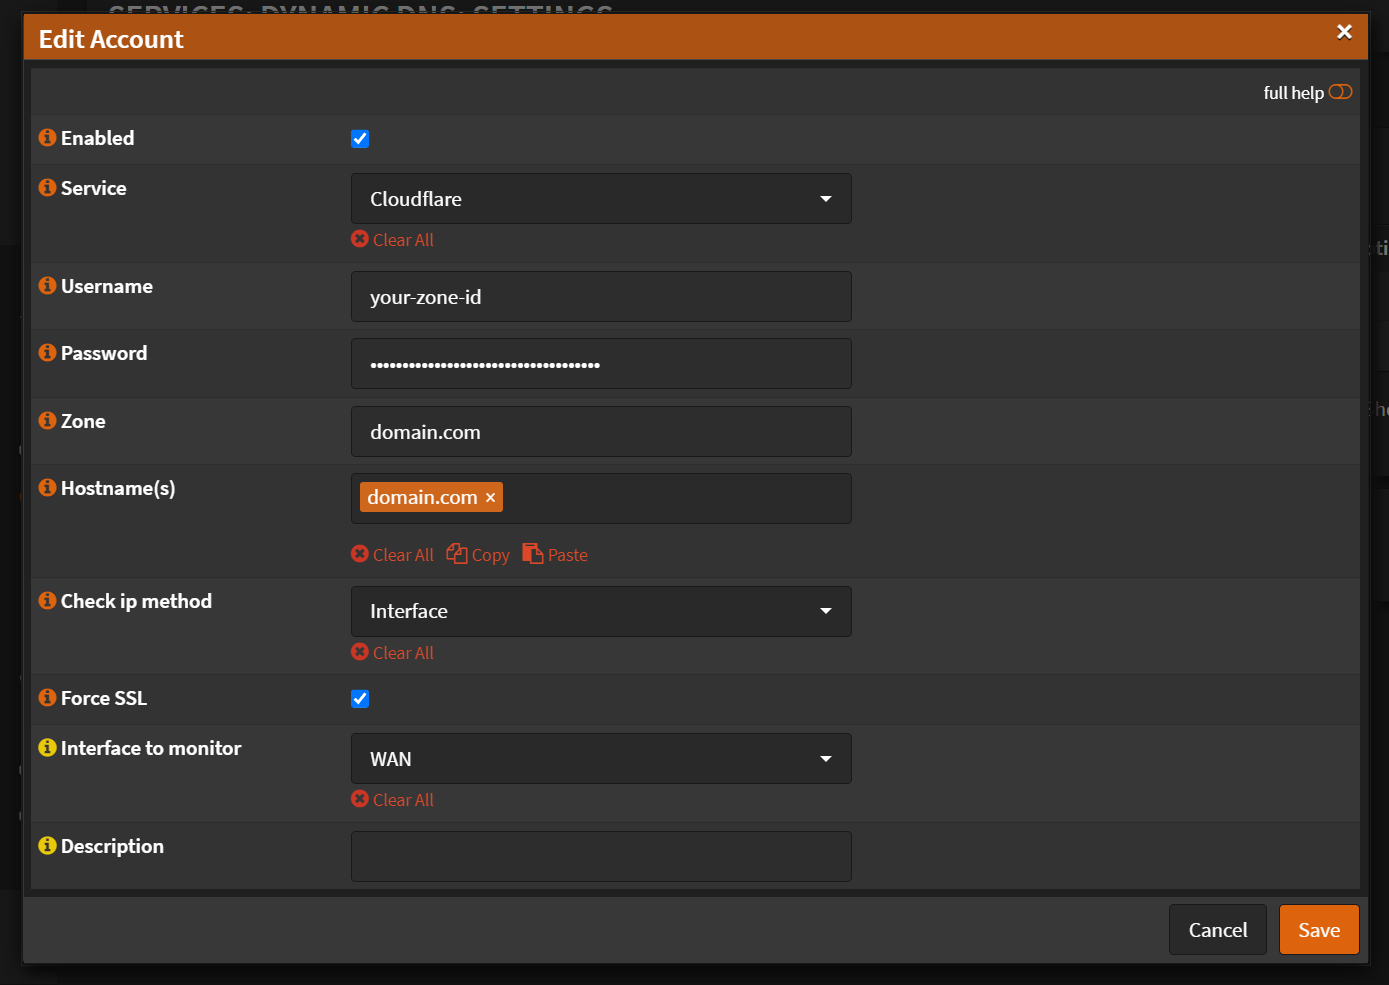
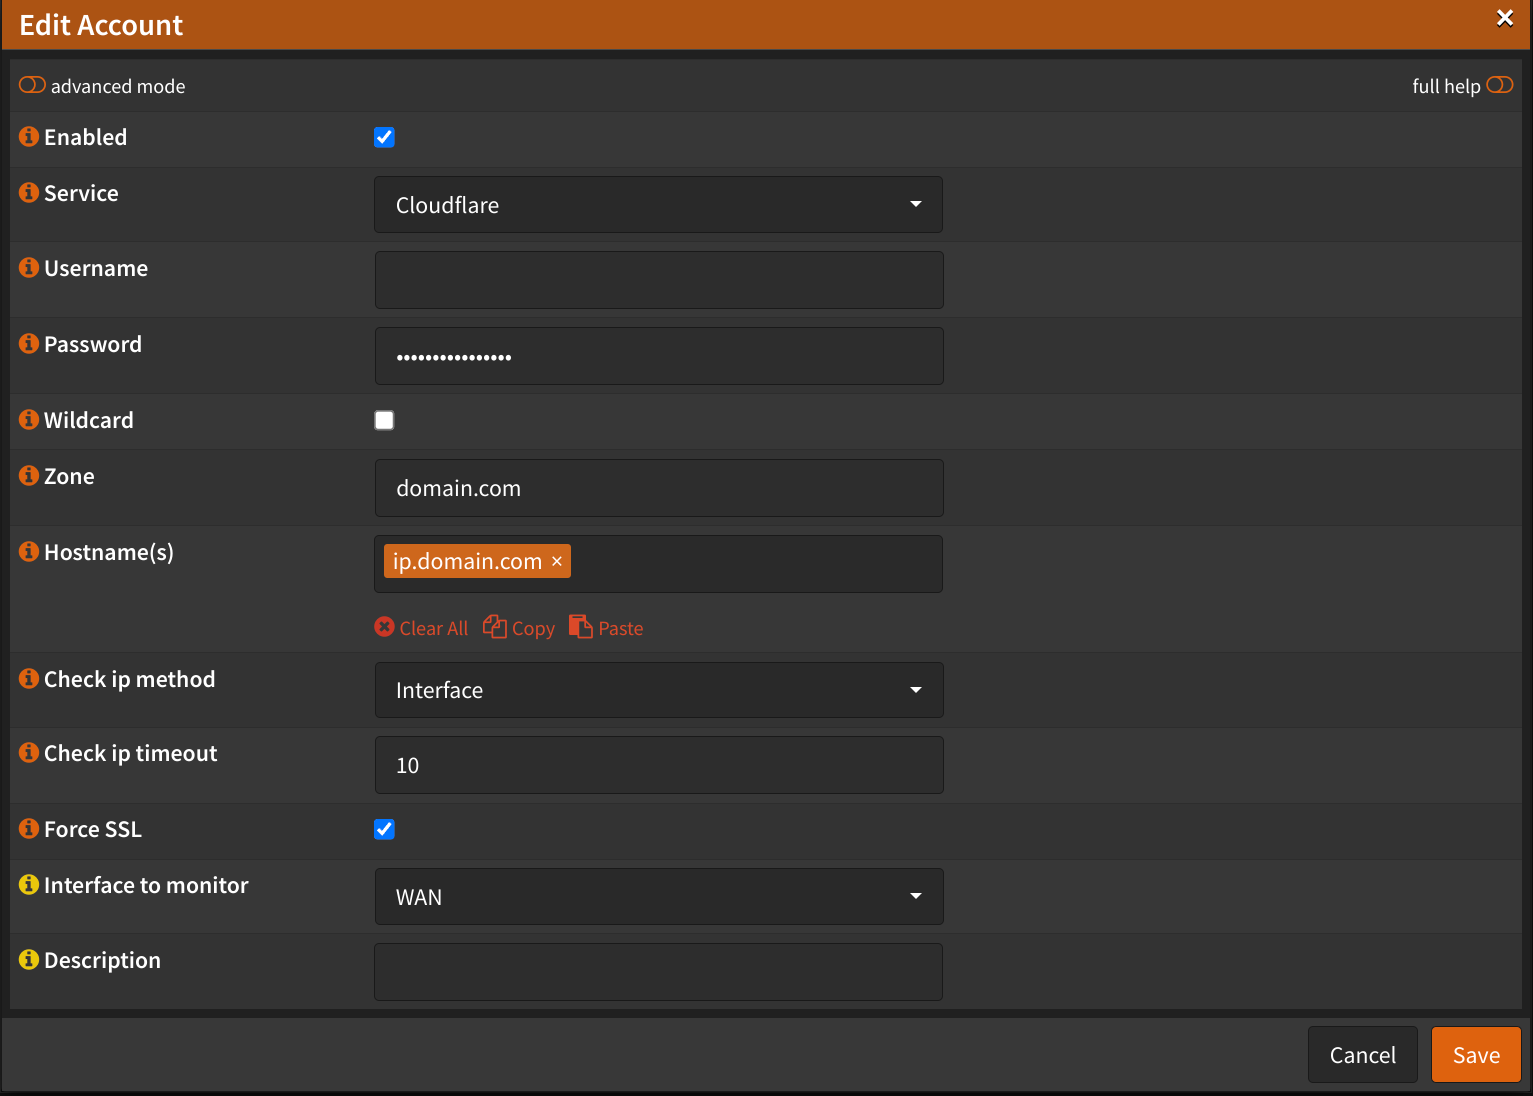
update ddns

diff --git a/docs/networking/2-opnsense/8-dynamic-dns/2-configuration.md b/docs/networking/2-opnsense/8-dynamic-dns/2-configuration.md
@@ -1,12 +1,9 @@
 # Configuration
 
-:::warning Currently working only with Global API Key
+:::tip
 
-Due to an upstream bug, it only works using the Global API Key
+Since `ddclient` version `1.11_1`, it supports API tokens.
 
-For more info follow this [issue](https://github.com/opnsense/plugins/issues/2842) on github
-
-I won't cover how to use it with the Global API Key. Once this is fixed, follow the guide bellow.
 :::
 
 Navigate to `Services` -> `Dynamic DNS` -> `Settings`
@@ -17,7 +14,6 @@ Navigate to `Services` -> `Dynamic DNS` -> `Settings`
 
 - Check `Enabled`
 - Service: `Cloudflare`
-- Username: `your-zone-id`
 - Password: `api-token`
 - Zone: `your-domain.com`
 - Hostname(s): `your-domain.com`
@@ -29,14 +25,6 @@ Navigate to `Services` -> `Dynamic DNS` -> `Settings`
 
 - Click <kbd>Save</kbd>
 - Click <kbd>Apply</kbd>
-
-## Zone ID
-
-To get the `Zone ID`, login to your Cloudflare account.
-Navigate to `Account Home` (Top right corner, on the human icon)
-Select `your-domain.com`.
-On the right sidebar, near the bottom. Under `API`, there is the `Zone ID`.
-Copy and paste it into `Username` field in OPNSense
 
 ## API Token
 
